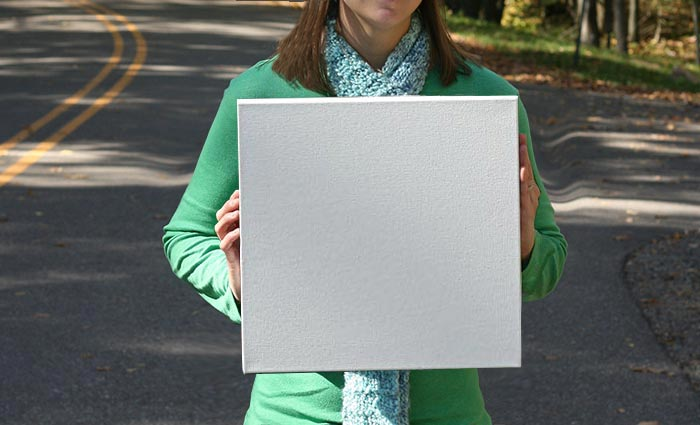
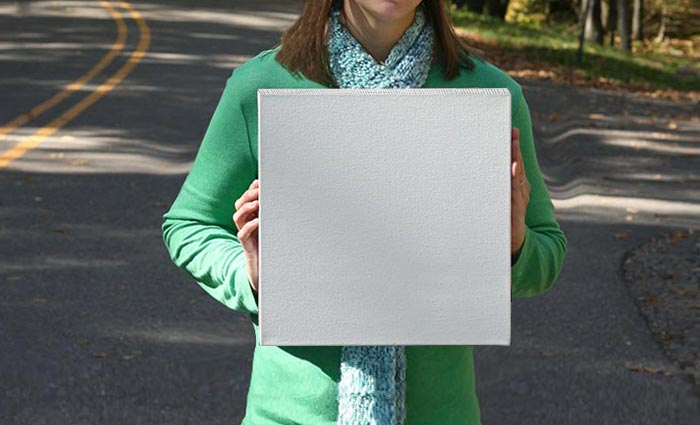
Update images to be square.

diff --git a/app/assets/stylesheets/_products.css.scss b/app/assets/stylesheets/_products.css.scss
@@ -125,10 +125,9 @@
   }
   
   .productImage-c16x16-1 {
-    top: 23.3%;
-    left: 35%;
-    width: 39%;
-    @include transform(rotate(-1deg));
+    top: 22.3%;
+    left: 37%;
+    width: 36%;
   }
 
   .productImage-c12x12-2, .productImage-c16x16-2 {
@@ -150,9 +149,9 @@
   }
 
   .productImage-c16x16-4 {
-    top: 19%;
-    left: 18.8%;
-    width: 41%;
+    top: 19.8%;
+    left: 13.4%;
+    width: 39%;
   }
   
   .productImage-c12x12-5 {
